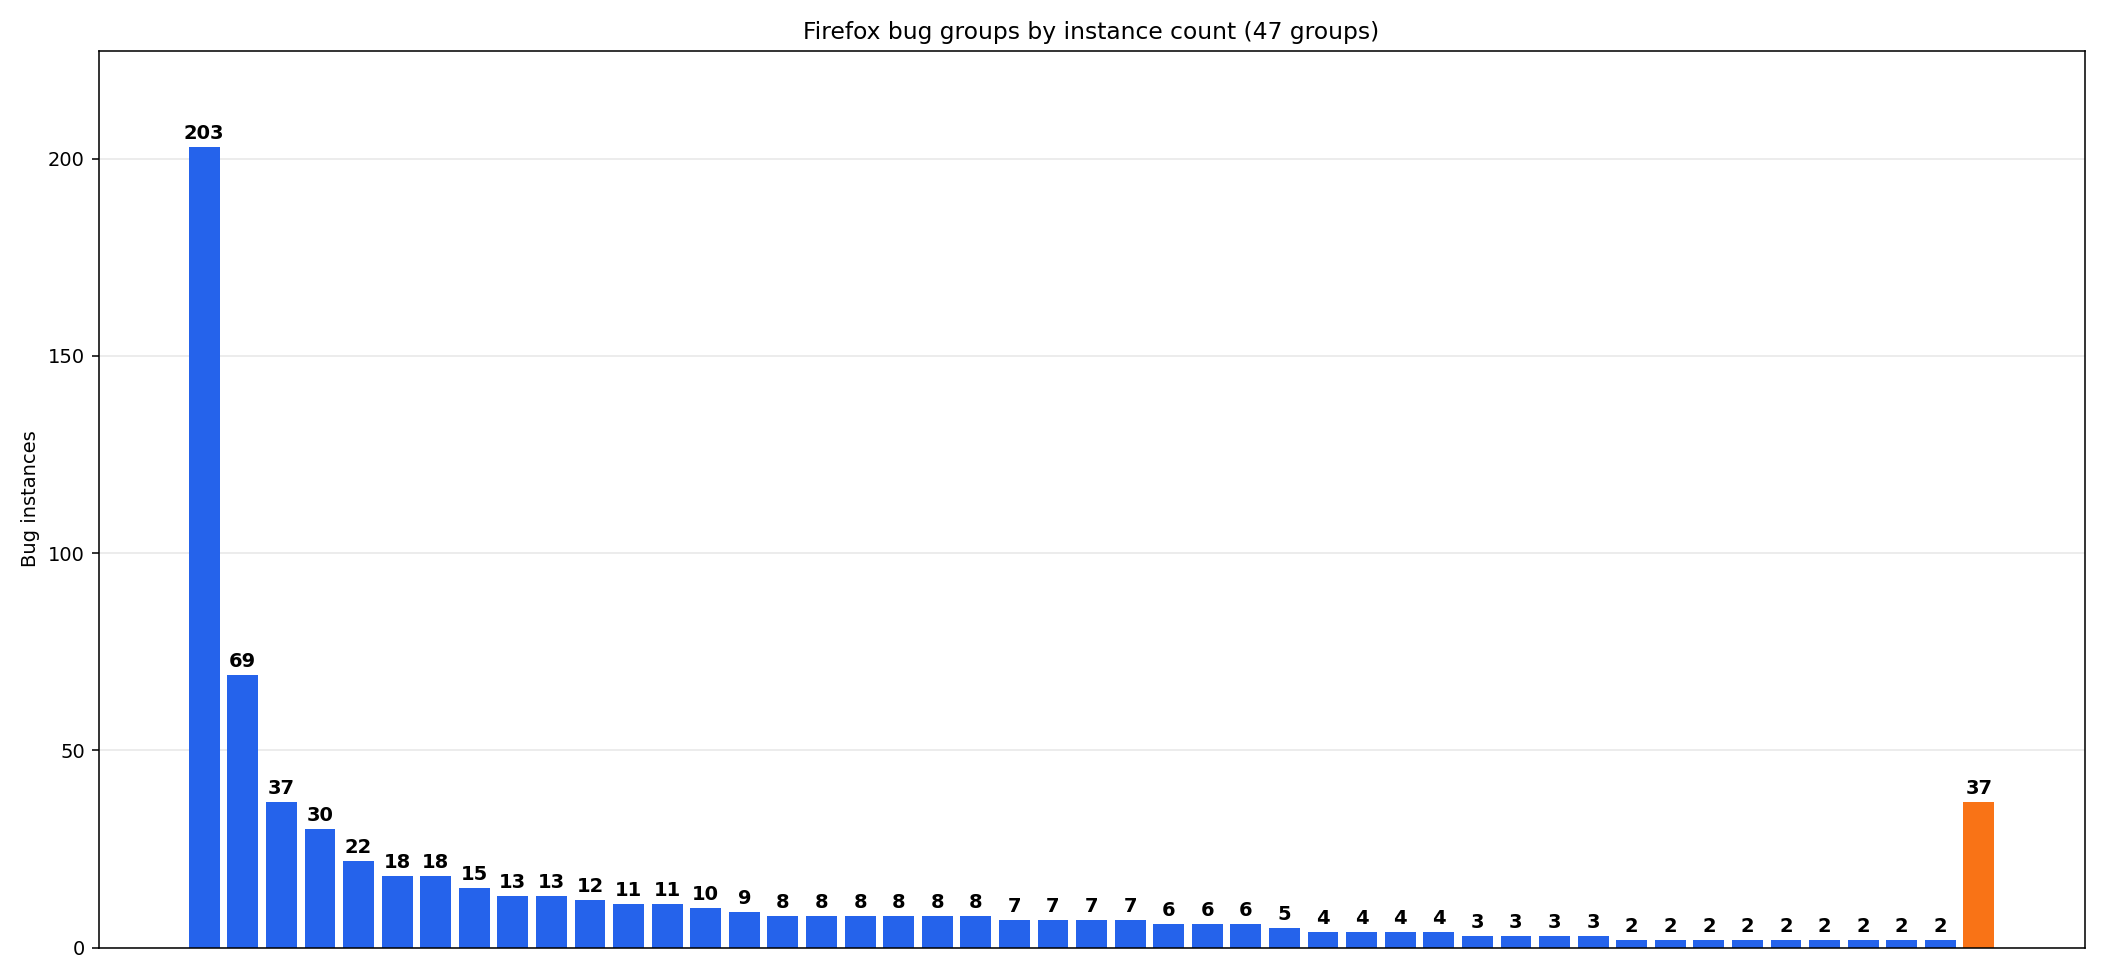
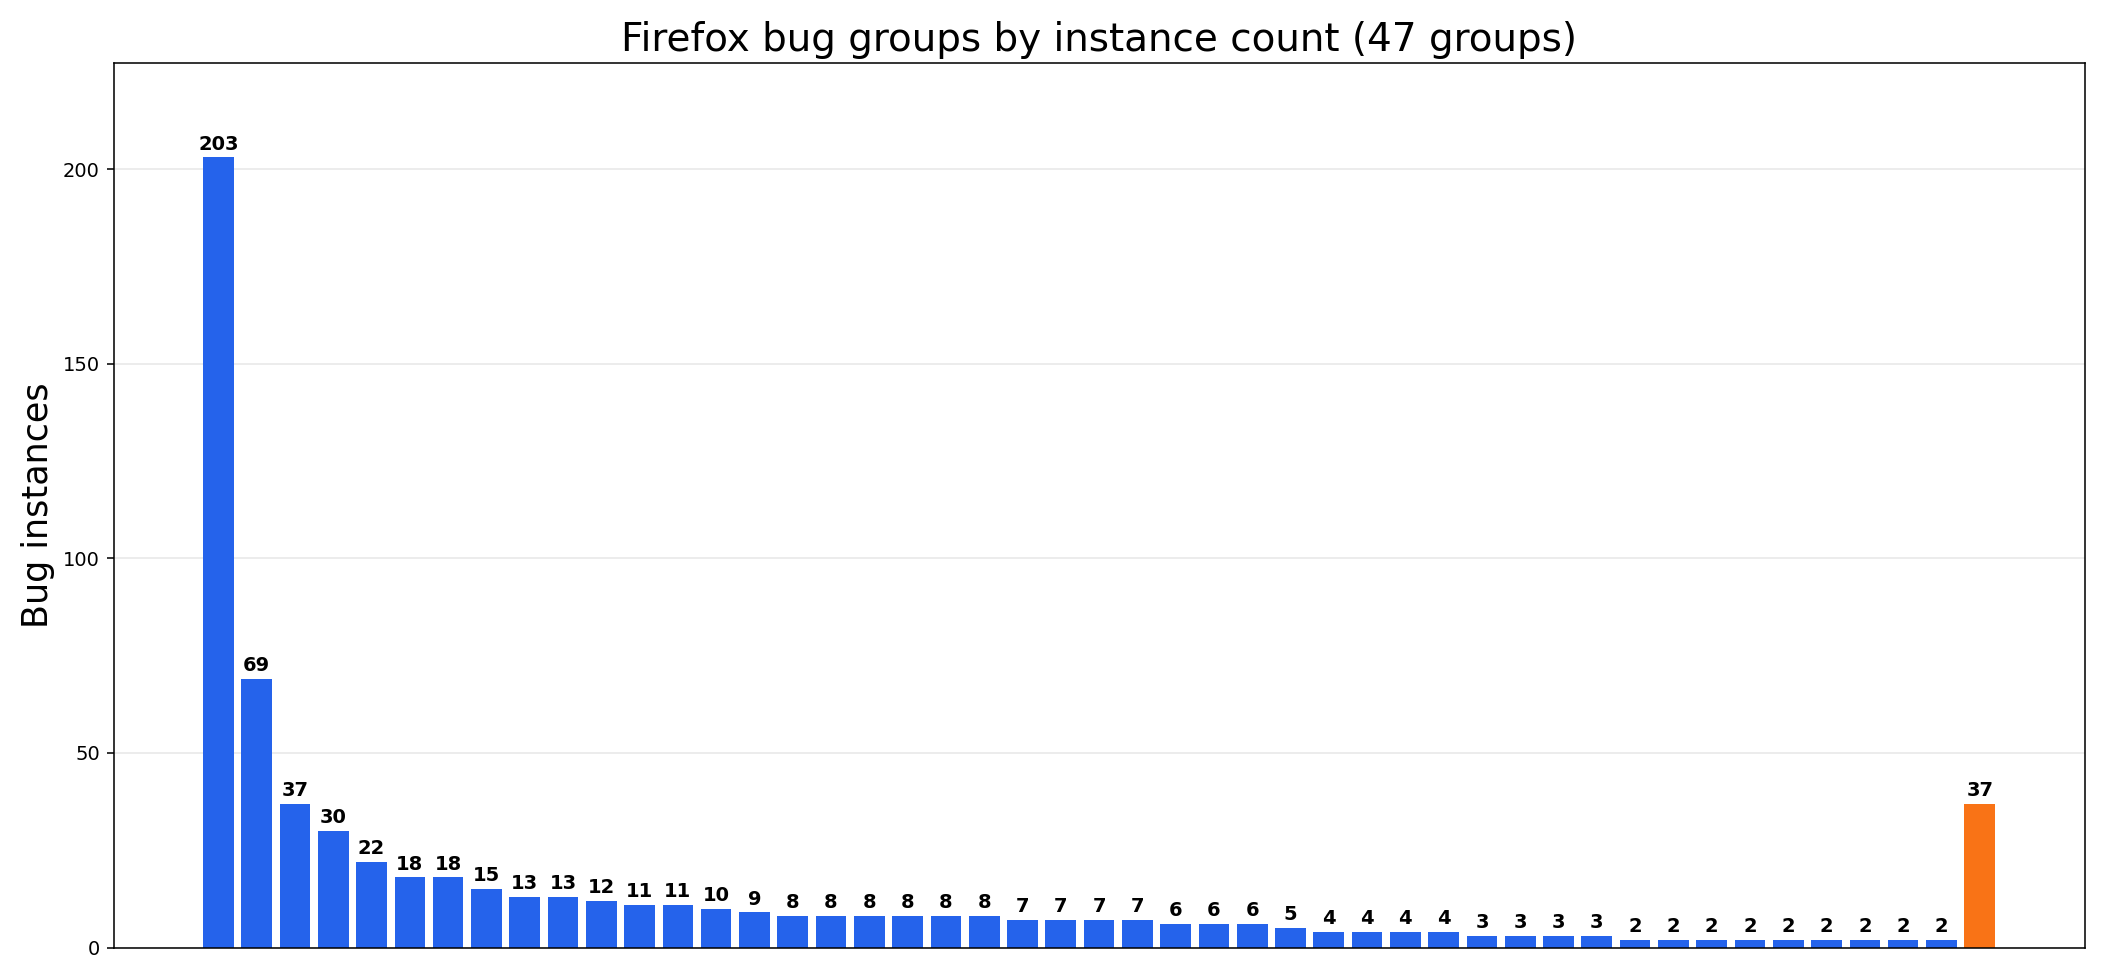
refrence fix and conclusion

diff --git a/scripts/graph_firefox_bug_groups.py b/scripts/graph_firefox_bug_groups.py
@@ -16,6 +16,10 @@ import matplotlib.pyplot as plt
 
 
 DEFAULT_RESULTS_DIRECTORY = Path(r"D:\bug\postfix\firefox-sort")
+TITLE_FONT_SIZE = 20
+LABEL_FONT_SIZE = 18
+TICK_FONT_SIZE = 10
+ANNOTATION_FONT_SIZE = 10
 DEFAULT_OUTPUT = (
     Path(__file__).resolve().parents[1]
     / "figures"
@@ -68,15 +72,26 @@ def main() -> None:
     colors = ["#f97316" if name == "Single bugs" else "#2563eb" for name in names]
     axis.bar(positions, counts, color=colors)
     axis.set_xticks([])
-    axis.set_ylabel("Bug instances")
-    axis.set_title(f"Firefox bug groups by instance count ({len(groups)} groups)")
+    axis.set_ylabel("Bug instances", fontsize=LABEL_FONT_SIZE)
+    axis.set_title(
+        f"Firefox bug groups by instance count ({len(groups)} groups)",
+        fontsize=TITLE_FONT_SIZE,
+    )
+    axis.tick_params(axis="y", labelsize=TICK_FONT_SIZE)
     axis.grid(axis="y", alpha=0.3)
     axis.set_axisbelow(True)
 
     largest_count = max(counts)
     axis.set_ylim(0, largest_count * 1.12)
     for position, count in zip(positions, counts):
-        axis.text(position, count + largest_count * 0.01, str(count), ha="center", fontweight="bold")
+        axis.text(
+            position,
+            count + largest_count * 0.01,
+            str(count),
+            ha="center",
+            fontweight="bold",
+            fontsize=ANNOTATION_FONT_SIZE,
+        )
 
     figure.tight_layout()
     output.parent.mkdir(parents=True, exist_ok=True)

diff --git a/sec_07_conclusion.tex b/sec_07_conclusion.tex
@@ -1,1 +1,7 @@
 \section{Conclusion}
+In this paper, we introduced \toolname, a fuzzer designed to expose the undertest bug of under-invalidation bugs in modern browser layout engines. There are no current fuzzers that use self-differential testing to expose this specific bug. Other fuzzers use cross-browser and cross-version comparisons which rely on the notion that there is a correct implementation. Instead compares a browser’s incremental layout against its own from-scratch layout provides a clean and practical oracle for detecting stale layout state after style updates.
+
+\toolname combines this oracle with grammar-directed generation, large DOM and CSS test cases, automated minimization, and clustering. Together, these components allow \toolname not only to find layout bugs, but also to reduce the complexity of the test cases that developers must inspect. Our evaluation shows that \toolname can reproduce known under-invalidation bugs, test hundreds of candidates per minute in Chrome and Firefox, and substantially reduce review volume through minimization and clustering. Most importantly, \toolname found \textbf{15 novel bugs} that were accepted by browser developers, with 7 fixed.
+
+These results show that under-invalidation bugs are a valuable target for browser fuzzing and that self-differential testing is an effective way to expose them making \textbf{\toolname the first fuzzer specifically designed to find browser layout under-invalidation bugs using self-differential testing:}. As browser layout engines continue to evolve and implement increasingly complex features, tools like \toolname can help developers catch subtle correctness bugs earlier and improve the reliability of the web platform.
+In addition, we look forward to applying these techniques to other systems that rely on invalidation, including GUI frameworks, spreadsheet calculation pipelines, and incremental build tools.

diff --git a/sec_03_challenges.tex b/sec_03_challenges.tex
@@ -31,7 +31,7 @@ Plus, some aspects of layout, like table layout,
   are not fully specified.
 When two browsers disagree,
   this does not guarantee that either one is wrong.
-The Janus fuzzer also faced this issue~\cite{janus},
+The Janus fuzzer also faced this issue~\cite{zhou2025janus},
   and compensated by using a weaker oracle:
   two different browsers should either both change
   or both not change their rendering in response to a user action.

diff --git a/sec_06_discussion.tex b/sec_06_discussion.tex
@@ -23,7 +23,7 @@ Naturally, all of those steps would add substantial complexity.
 Alternatively, the \toolname oracle and generation procedure
   could be added to existing browser fuzzing harnesses.
 This has already been done with Grizzly~\cite{grizzly},
-  the fuzzing hardness used by Mozilla;
+  the fuzzing harness used by Mozilla;
   we would be interested in supporting other harnesses,
   such as Google's Clusterfuzz~\cite{clusterfuzz}.
 In any case, \toolname is currently effective enough